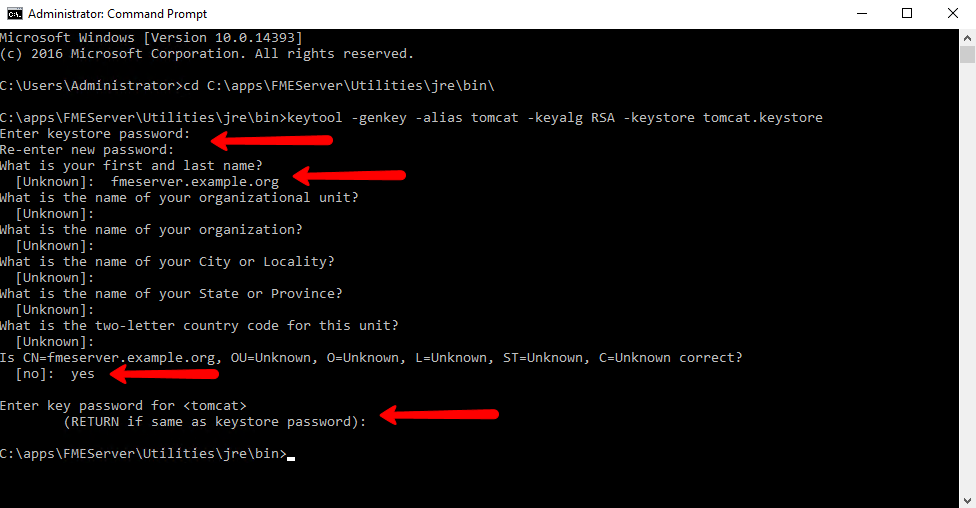
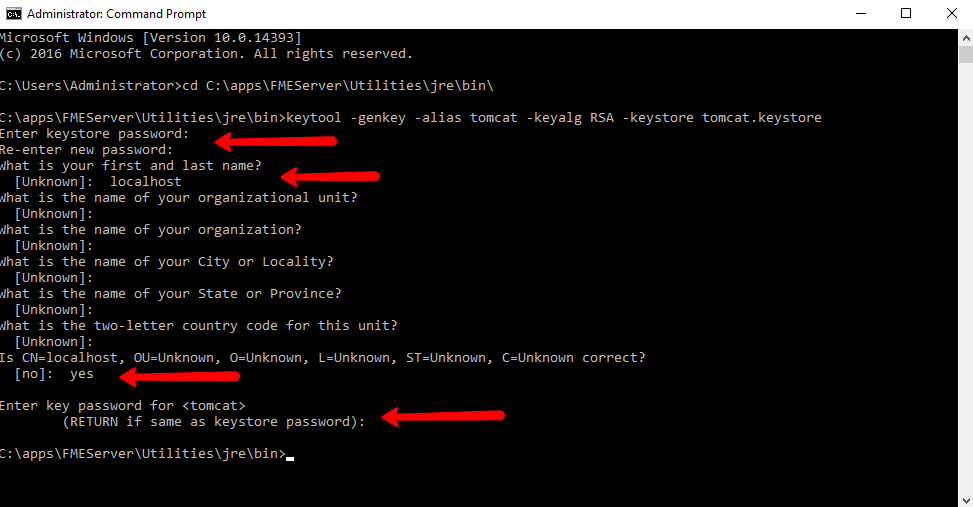
Exercise Edits
updated modifie service urls section for HTTPS exercise

diff --git a/ServerAdmin3Security/Exercise3_ConfiguringForHTTPS.md b/ServerAdmin3Security/Exercise3_ConfiguringForHTTPS.md
@@ -51,7 +51,7 @@ Run the following command to create a new keystone file:
 
 	keytool -genkey -alias tomcat -keyalg RSA -keystore tomcat.keystore
  
-Set a password for the new keystore and specify the server domain name (for example, *fmeserver.example.org*) as your first and last name.
+Set a password for the new keystore and specify the server domain name (for example, *localhost*) as your first and last name.
 
 Enter yes when prompted if inputs are correct.
 
@@ -70,7 +70,7 @@ Copy the new keystore file to the tomcat directory in the FME Server installatio
 
 The new keystore must be imported into the FME Server keystore for trusted certificates. In the command prompt, enter the following command:
 
-	keytool -importkeystore -srckeystore tomcat.keystore -destkeystore "C:\apps\FMEServer\Utilities\jre\lib\security\cacerts"
+	keytool -importkeystore -srckeystore tomcat.keystore -destkeystore C:\apps\FMEServer\Utilities\jre\lib\security\cacerts
 
 You will be prompted to enter two passwords. One for the destination keystore and one for the source keystore. The password for the destination keystore is **changeit**. The password for the source keystore is the password that was specified in step 1 above.
 
@@ -168,15 +168,13 @@ To enable SSL for a service, login to the FME Server Web User Interface (usernam
 
 ![](./Images/3.407.ServicesButton.png)
 
-On the *Services* page, click the desired service. For this exercise, let's select *Job Submitter*.
+On the *Services* page, you can update specific services or all services at once. Let's update all services. Click **Change All Hosts**
 
-![](./Images/3.408.selectService.png)
+![](./Images/3.413.ChangeAllHosts.png)
 
-The *Editing Service* page opens. In the *URL Pattern* field, change *HTTP* to *HTTPS*.
+The *Change All Hosts* dialog opens. Make sure *Host* is set to *https://localhost:8443* and click **OK**.
 
-![](./Images/3.409.httpTOhttps.png)
-
-Click **OK**.
+![](./Images/3.414.ChangeAllHosts2.png)
 
 Check on the *Services* page that your update worked.
 
